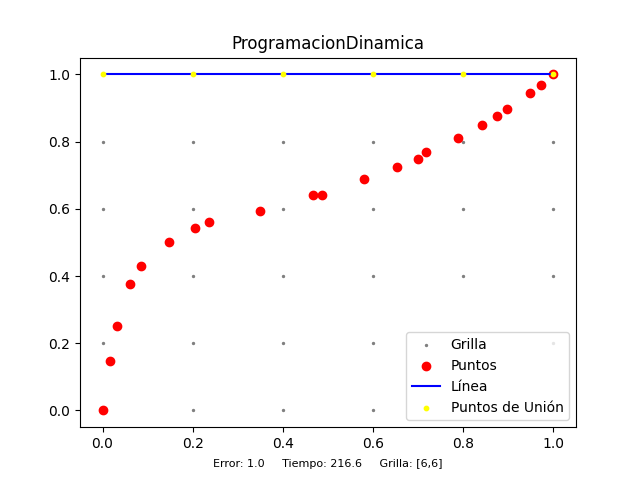
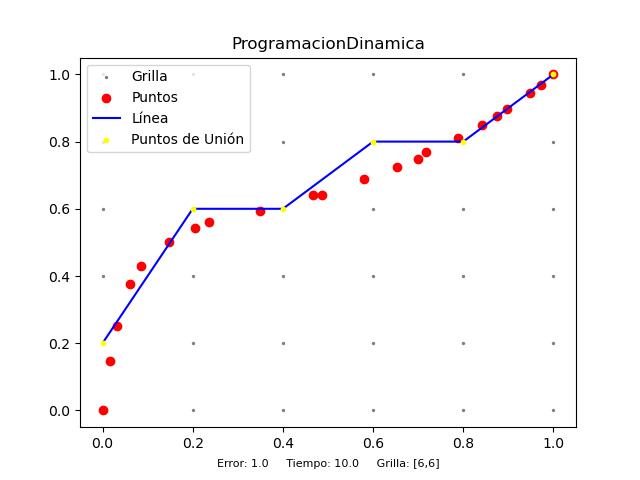
siguiendo limpiando main

diff --git a/src/python/algorithms/pDinamica.py b/src/python/algorithms/pDinamica.py
@@ -2,49 +2,81 @@ import numpy as np
 import time
 from algorithms.Core import *
 
+def errorBreakPoints_dinamico(listaX,listaY,datos):
+    errorTotal = 0
+    error_actual = 0
+    puntos = []
+    for i in range(len(listaX) - 1):
+        puntos.append((listaX[i],listaY[i]))
+        puntos.append((listaX[i+1],listaY[i+1]))
+        clave = (puntos[0],puntos[1])
+        if (clave in DiccionarioDeErrores): # Si ya tengo el error entre estos dos puntos almacenado en mi diccionario, es decir ya lo calculé antes...
+            error_actual = DiccionarioDeErrores[clave]
+        else:
+            error_actual = errorAB(listaX[i],listaY[i],listaX[i+1],listaY[i+1],datos)
+            nueva_clave = clave
+            DiccionarioDeErrores[nueva_clave] = error_actual # defino nueva clave en mi diccionario, una que no habia calculado antes
+        errorTotal += error_actual
+        puntos.clear()
+
+    return errorTotal
+
 def pDinamica(m:int,n:int,k:int, datos, dataName:str):
    # Comenzamos a contar el tiempo de ejecucion
     start = time.time()
+	
+    #creamos la grilla en x y en y para los datos 
+    gridX:list = np.linspace(min(datos["x"]), max(datos["x"]), num=m, endpoint=True)
+    gridY:list = np.linspace(min(datos["y"]), max(datos["y"]), num=n, endpoint=True)
     
     #Sacamos el primer y ultimo elemento de la grilla x para trabajr unicamente con las columnas del medio
-    gridX = np.linspace(min(datos["x"]), max(datos["x"]), num=m)
-    gridY = np.linspace(min(datos["y"]), max(datos["y"]), num=n)
-     # creamos una lista que va a contener todas las combinaciones posibles de como separar las columnas del medio dado k-2
-    conjunto_medio = gridX[1:-1]
-    listas_medio = []
-    listasCombinatorias(conjunto_medio, [], listas_medio, k-2)
-    
-    listas_medio = [[gridX[0]] + lista + [gridX[-1]] for lista in listas_medio]
-    
-    bestRes = [gridY[-1]] * k
-    bestError = float('inf')
-    
-    global DiccionarioDeErrores
-    DiccionarioDeErrores = {}
+    conjunto_medio:list = gridX[1:-1]
 
+    # creamos una lista que va a contener todas las combinaciones posibles de como separar las columnas del medio dado k-2
+    listas_medio = []
+    listasCombinatorias(conjunto_medio,[],listas_medio,k-2)
+
+    #agregamos el primer y ultimo elemento a cada lista 
+    listas_medio = [[gridX[0]] + lista + [gridX[-1]] for lista in listas_medio]
+
+    bestRes = []
+    bestSubGridX =  [] 
+    bestError = 100000000000001
+
+    # Creo la matriz (variable global) con -1's en todas sus posiciones
+    global DiccionarioDeErrores
+    DiccionarioDeErrores = dict()
+   
+    for i in range(k):
+        bestRes.append(gridY[-1])
+   
     
-    
+    #con cada subgrilla probamos fuerza bruta recursiva que recursivamente recorre todas las posibles combinaciones y devuelve el mejor error de esa subgrillaa
     for subGridX in listas_medio:
-        res = [gridY[0]] * len(subGridX)
-        errorActual = pDinamicaRecursiva(subGridX, gridY, [], [], res, bestError, datos)
+        # print(subGridX)
+        res = []
+       
+        #esto lo hice porque la lista estba vacia para darles valores inciales porque 
+        #sino en la priemra iteracion no podia iterar sobre valoers vacios por eso daba el lsit index out of range [1]
+        for i in range(len(subGridX)):
+            res.append(gridY[0])
         
-        if errorActual < bestError:
+        errorActual = 100000000000001
+        
+        errorActual = pDinamicaRecursiva(subGridX,gridY,[],[],res, errorActual, datos)
+        
+        #si otra subgrilla tiene un mejor error guarda esa 
+        if(errorActual < bestError):
             bestSubGridX = subGridX.copy()
             bestError = errorActual
-            bestRes = res.copy()
-        
-        
+            bestRes = res.copy()    
     
     # Cortamos el tiempo y calculamos el tiempo de ejecucion
     end = time.time()
     totalTime = (end - start) * 1000
 
     # Generamos el grafico de la Instancia
-    plot_puntos_y_linea(datos,bestSubGridX,bestRes,m,n,"V1: ProgramacionDinamica",bestError,totalTime,dataName)    
-    
-    # print("----PROG DINAMICA V1----")
-    # print(f"TIEMPO: {totalTime},\nFUNCION x: {bestSubGridX},\nFUNCION y: {bestRes},\nERROR: {bestError}\n\n")
-    
+    plot_puntos_y_linea(datos,bestSubGridX,bestRes,m,n,"ProgramacionDinamica",bestError,totalTime,dataName)    
 
     return np.round(bestError,decimals=2),bestRes,np.round(totalTime,decimals=2)
 
@@ -66,27 +98,17 @@ def pDinamicaRecursiva(gridX,gridY,xs:list,ys:list,res:list,bestError,datos):
 
         return errorActual 
     
-    if len(gridX) > len(xs):
-        currentBestError = float('inf')
-        for j in gridY:
-            ys.append(j)
-            error = pDinamicaRecursiva(gridX, gridY, xs + [gridX[len(xs)]], ys, res, bestError, datos)
-            currentBestError = min(currentBestError, error)
-            ys.pop()
-        
-        return currentBestError
-    
-    return bestError
+    #Caso recursivo
+    i = len(xs)
+    xs.append(gridX[i])
+    currentBestError = bestError
+    for j in gridY:
+        ys.append(j)
+        error = pDinamicaRecursiva(gridX,gridY,xs,ys,res,currentBestError,datos)
+        # m[posicion] = error
+        if(error < currentBestError):
+            currentBestError = error
+        ys.pop()
+    xs.pop()
 
-
-def errorBreakPoints_dinamico(listaX, listaY, datos):
-    errorTotal = 0
-    for i in range(len(listaX) - 1):
-        clave = ((listaX[i], listaY[i]), (listaX[i+1], listaY[i+1]))
-        if clave in DiccionarioDeErrores:
-            error_actual = DiccionarioDeErrores[clave]
-        else:
-            error_actual = errorAB(listaX[i], listaY[i], listaX[i+1], listaY[i+1], datos)
-            DiccionarioDeErrores[clave] = error_actual
-        errorTotal += error_actual
-    return errorTotal
+    return currentBestError
